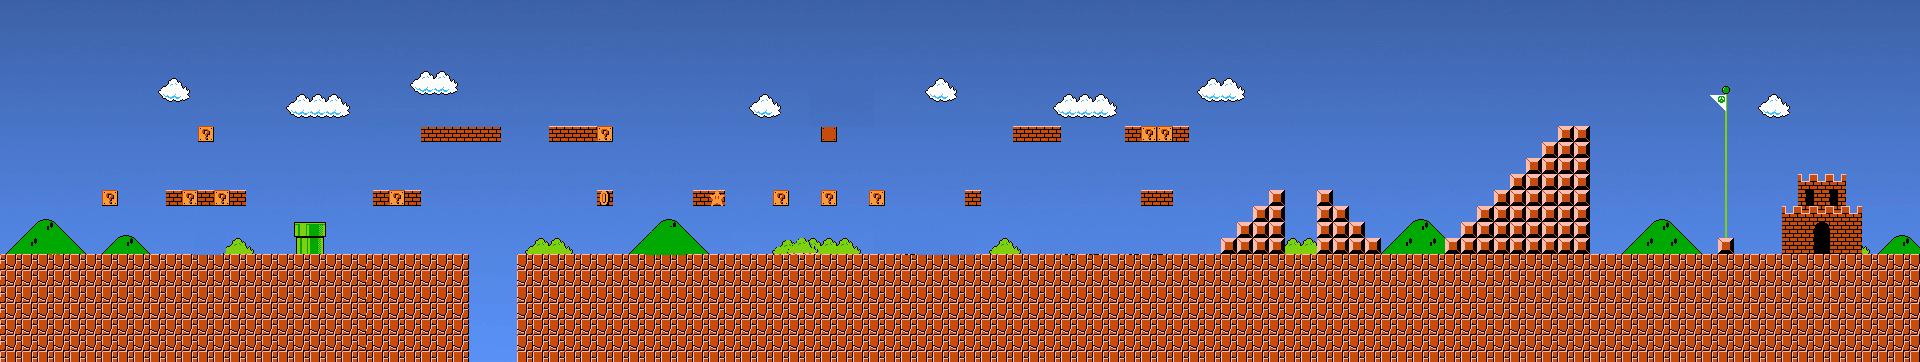
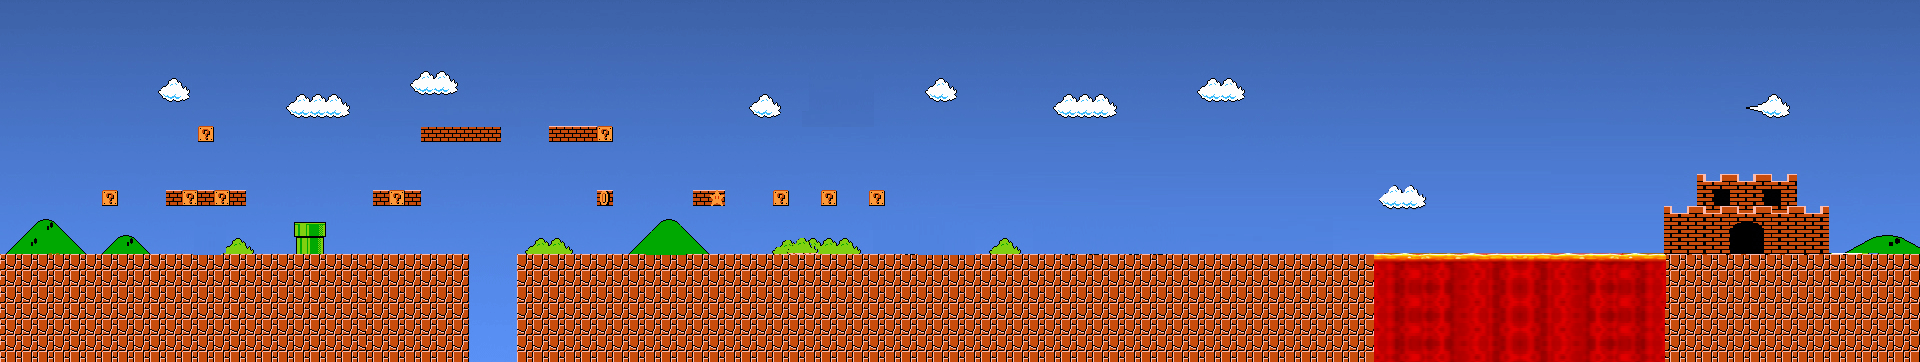
stage 2 complete with transition

diff --git a/index.js b/index.js
@@ -3,14 +3,14 @@ let enemy = [];
 let platforms = [];
 let obstacles = [];
 let winners = [];
-let current_stage = 'stage2';
+let current_stage = 'stage1';
 let winncnt = 0;
 // canvas.height = 1300;
 canvas.height = 1300;
 // canvas.height = document.body.clientHeight;
 // canvas.width = document.body.clientWidth;
 canvas.width = 2200;
-let show_hidden = true;
+let show_hidden = false;
 var c = canvas.getContext("2d");
 const gravity = 0.5;
 let notover = false;
@@ -388,12 +388,13 @@ function animate() {
     c.drawImage(losing, 0, 0, canvas.width, canvas.height);
   }
   if (winn) {
-    // current_stage = 'stage2';
-    // winn = false;
-    // winncnt++;
-    // load()
-    c.drawImage(winning, 0, 0, canvas.width, canvas.height);
+    current_stage = 'stage2';
+    winncnt++;
+    load();
     winn = false;
+  }
+  if (winncnt === 2) {
+    c.drawImage(winning, 0, 0, canvas.width, canvas.height);
   }
   if (keys.right.pressed && goku.position.x < 400) {
     goku.velocity.x = 5;
@@ -585,7 +586,7 @@ function animate() {
 }
 async function load() {
 
-  let stage = 'stage2';
+  let stage = current_stage;
   const enemyURL = `${window.location.href}${stage}/enemy.json`;
   const platformURL = `${window.location.href}${stage}/platform.json`;
   const obstacleURL = `${window.location.href}${stage}/obstacle.json`;
